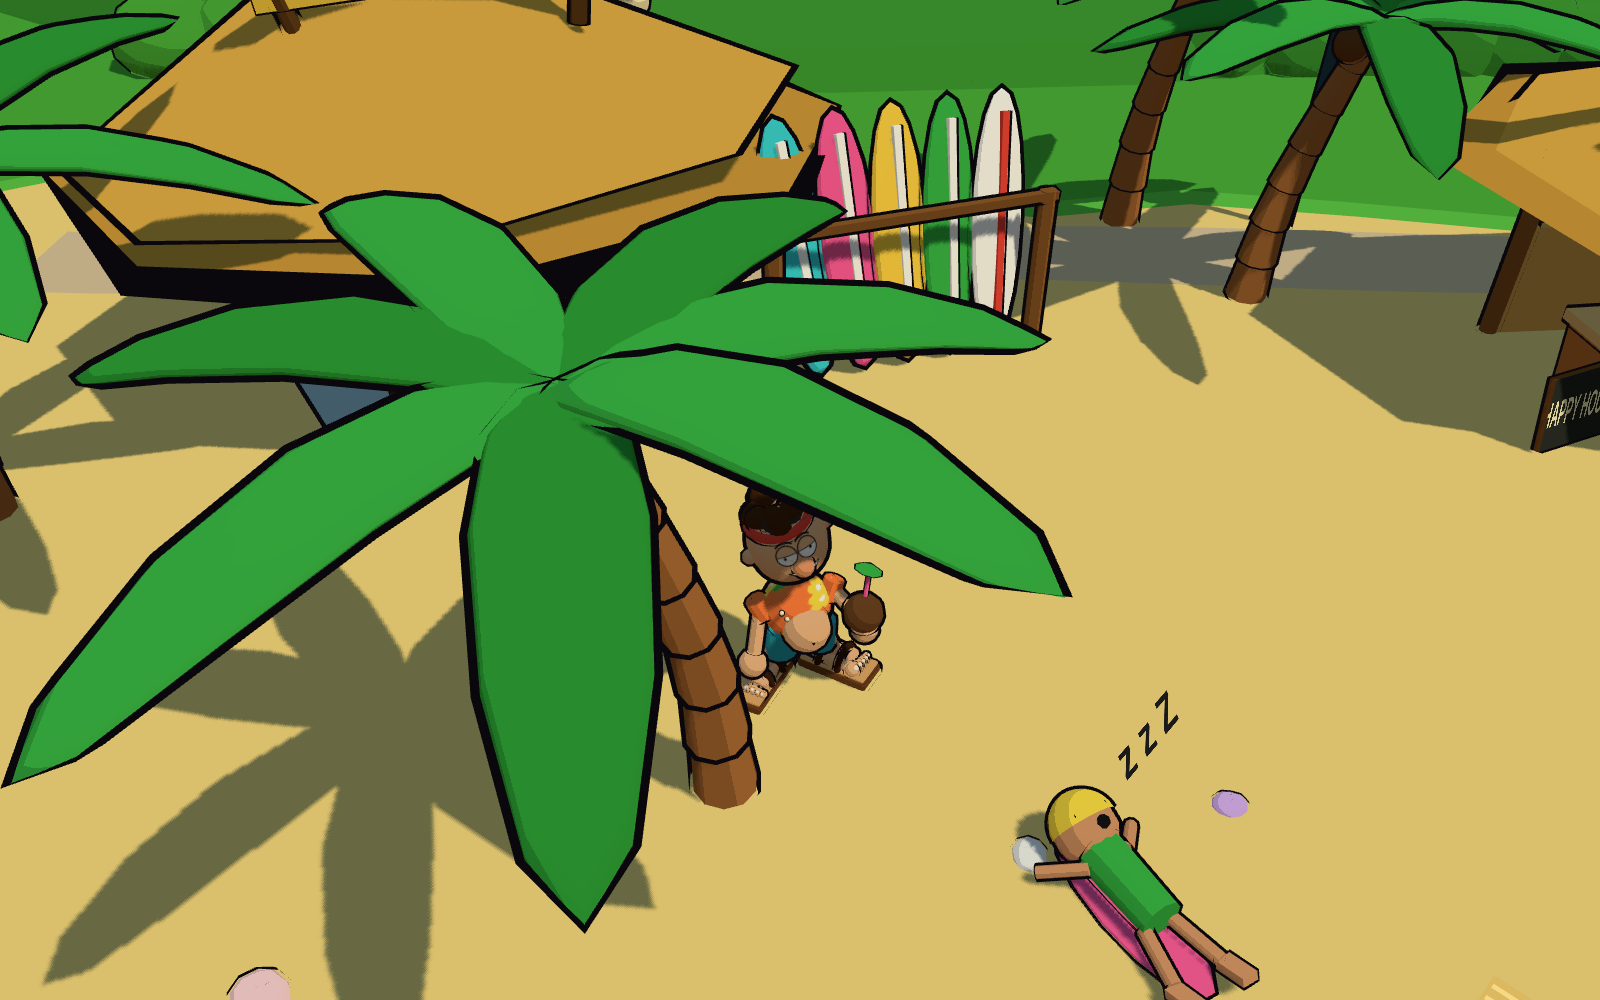
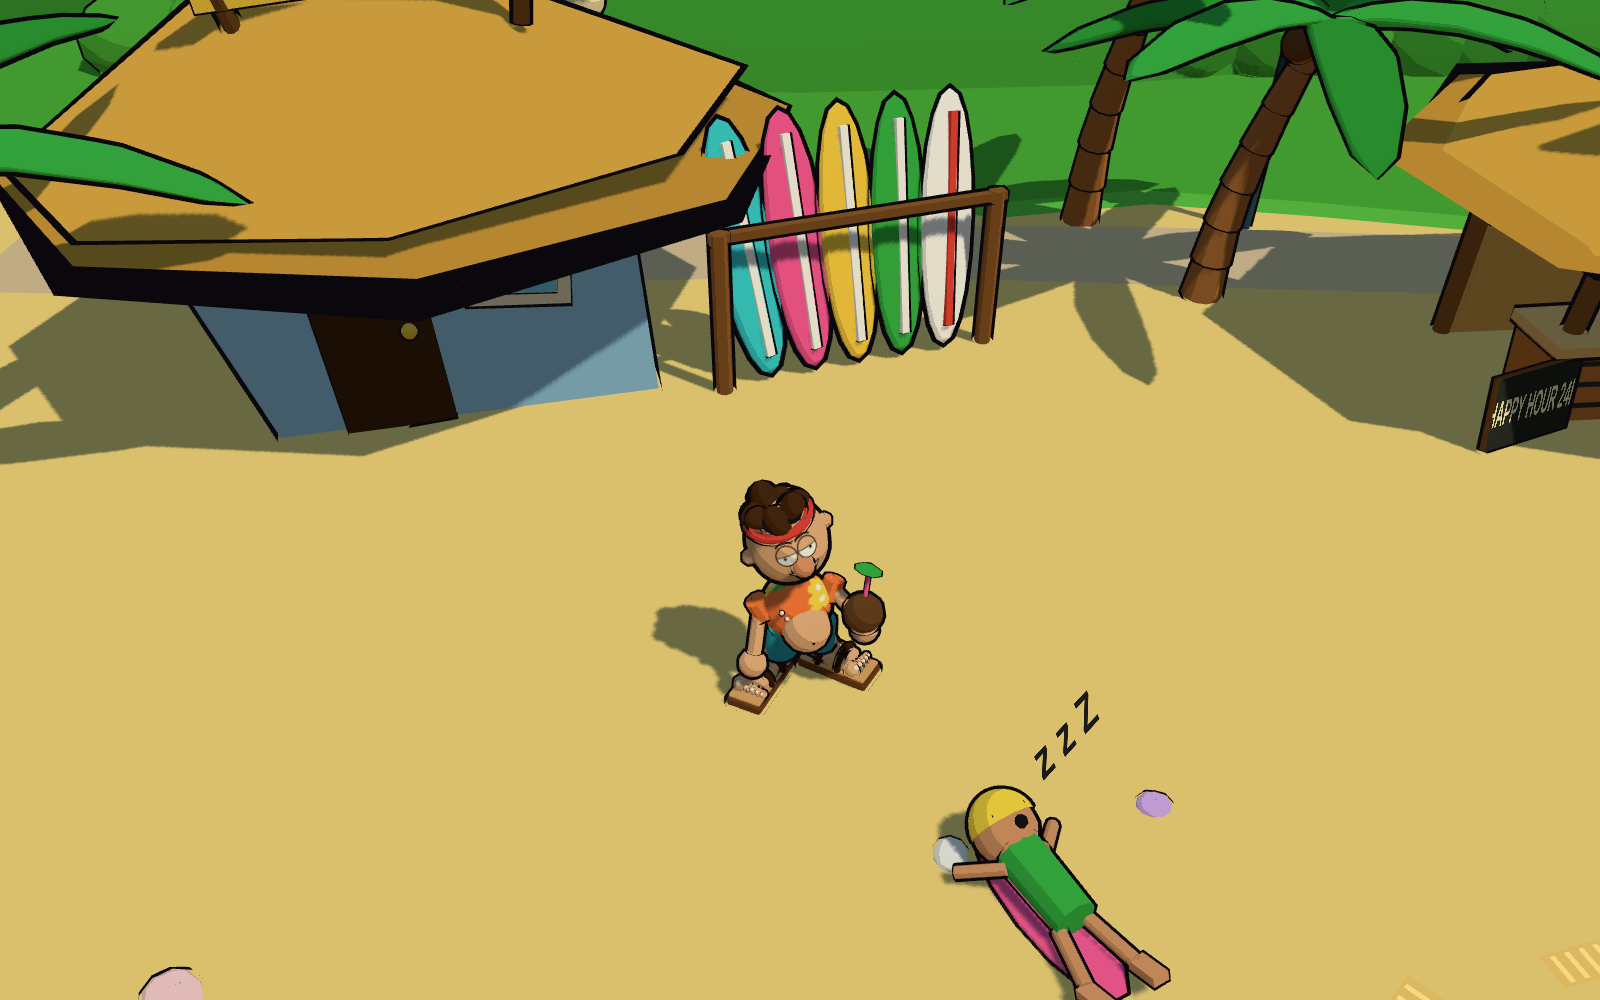
Prototyp: Palmen blenden aus, wenn sie verdecken

diff --git a/spiel/test/logic.test.js b/spiel/test/logic.test.js
@@ -225,3 +225,14 @@ test('scaledRect/scaledCircle: Offsets und Maße wachsen mit dem Gebäude', () =
   const c = scaledCircle(o, 1.5, -2.1, -1.1, 0.25);
   close(c.x, -31.15); close(c.z, -7.65); close(c.r, 0.375);
 });
+
+test('isOccluder: Palmenkrone neben der Sichtlinie — Kugel mit Blattlängen-Radius fängt sie, kleine Kugel nicht', () => {
+  // Szene „dorf“ (alter Punkt) mit Kamera von Süden: Spieler (0, −16), Kamera (0, 13, −3); Palme bei (2, −9),
+  // Krone ca. (2.8, 6.3, −7.7) — im Bild hing sie massiv vor der Figur, Abstand zur Sichtlinie 3.6
+  const cam = { x: 0, y: 13, z: -3 }, head = { x: 0, y: 2.5, z: -16 };
+  const crown = { x: 2.8, y: 6.3, z: -7.7, r: 4.8 };
+  assert.equal(isOccluder(cam, head, { ...crown, r: 2.0 }, { margin: 0.4 }), false, 'als kompakter Ball kein Verdecker');
+  assert.equal(isOccluder(cam, head, crown, { margin: 0.4 }), true, 'mit Blattlängen-Radius ein Verdecker');
+  // weit abseits bleibt sie unsichtbar für die Regel
+  assert.equal(isOccluder(cam, head, { ...crown, x: 20 }, { margin: 0.4 }), false);
+});

diff --git a/spiel/js/main.js b/spiel/js/main.js
@@ -160,6 +160,8 @@ function updateFade() {
     // Vorfilter (reine Logik, getestet): Props, deren Kugel die Sichtlinie schneidet oder vor der Linse liegt
     candidates.length = 0;
     for (const o of world.group.children) {
+      // Palmenkronen: Kugel an der Sichtlinie reicht (ohne Mesh-Raycast), die Krone ist eine große flache Fläche
+      if (o.userData.crown && isOccluder(camPos, target, o.userData.crown, { margin: 0.4 })) { groups.add(o); continue; }
       if (o.userData.sphere && isOccluder(camPos, target, o.userData.sphere)) candidates.push(o);
     }
     // Feinprüfung per Raycast gegen die Meshes der Kandidaten (eine große Kugel heißt noch nicht Treffer)

diff --git a/spiel/js/world.js b/spiel/js/world.js
@@ -156,6 +156,10 @@ export function buildWorld() {
     g.add(p);
     palmObjs.push(p);
     circle(x, z, 0.63);
+    // Krone als Kugel (Welt): Mitte = Stammspitze, Radius = Blattlänge. Für die Verdeckung reicht der Strahl bei
+    // der großen flachen Krone nicht, deshalb wird die ganze Palme ausgeblendet, sobald die Kugel die Sichtlinie berührt.
+    const top = p.userData.curve.getPointAt(1).multiplyScalar(1.4);
+    p.userData.crown = { x: x + top.x, y: top.y - 0.6, z: z + top.z, r: 4.8 };
   }
   // Hängematte zwischen Palme 4 und 5 (Versteck hinter der Bar)
   {

diff --git a/spiel/README.md b/spiel/README.md
@@ -62,7 +62,9 @@ Standbild (für die PNGs in `shots/`).
   exponentiell nachgezogen. Standard steht die Kamera im Norden und schaut übers Land aufs Meer — so ist das Wasser
   fast immer im Bild; mit Q/E dreht man sich die Hütten und Hügel ins Bild.
 - **Verdeckung:** Jeden Frame gehen zwei Strahlen von der Kamera zum Spieler (Kopf- und Kniehöhe, damit auch
-  hängende Palmenkronen zählen). Vorfilter ist die reine Funktion
+  hängende Palmenkronen zählen). Palmen haben zusätzlich eine Kronen-Kugel (Mitte Stammspitze, Radius Blattlänge):
+  berührt sie die Sichtlinie, wird die Palme ohne Mesh-Raycast ausgeblendet, weil die flache Krone vom Strahl oft
+  verfehlt wird. Für alles andere ist der Vorfilter die reine Funktion
   `isOccluder()` (Kugel schneidet die Sichtlinie oder liegt vor der Linse, getestet), danach ein Raycast gegen die
   Meshes der Kandidaten. Getroffene Props werden als ganze Gruppe auf 25 % Deckkraft gesetzt — inklusive
   Kontur-Hülle (der Kontur-Shader hat dafür ein `opacity`-Uniform). Weil Materialien pro Farbe geteilt sind, bekommt
